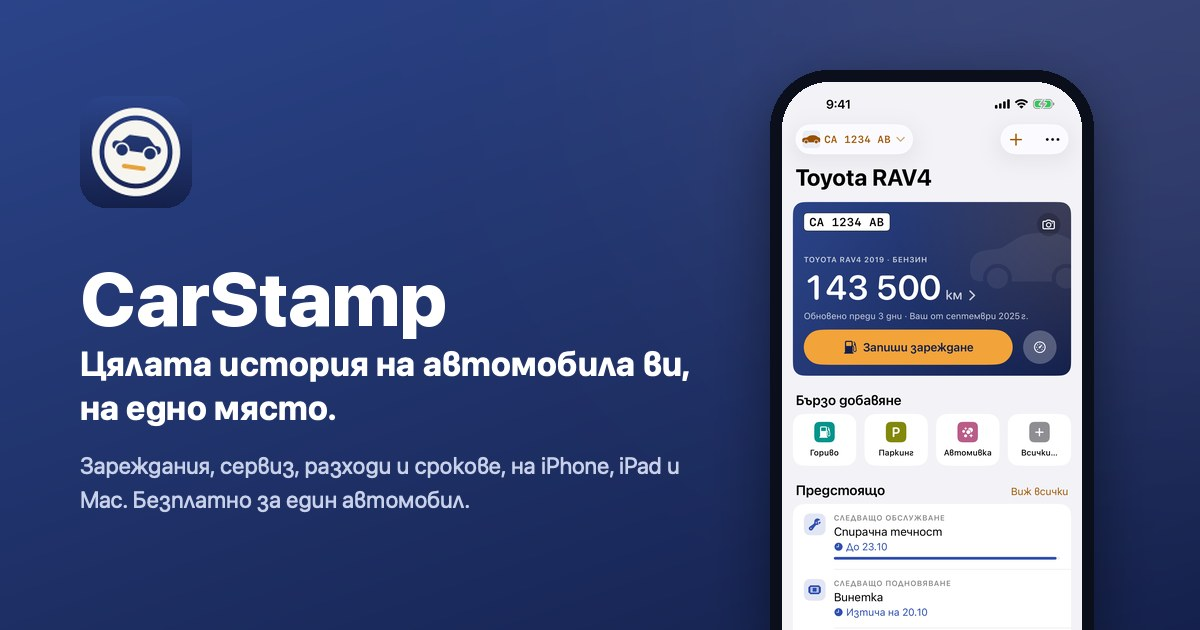
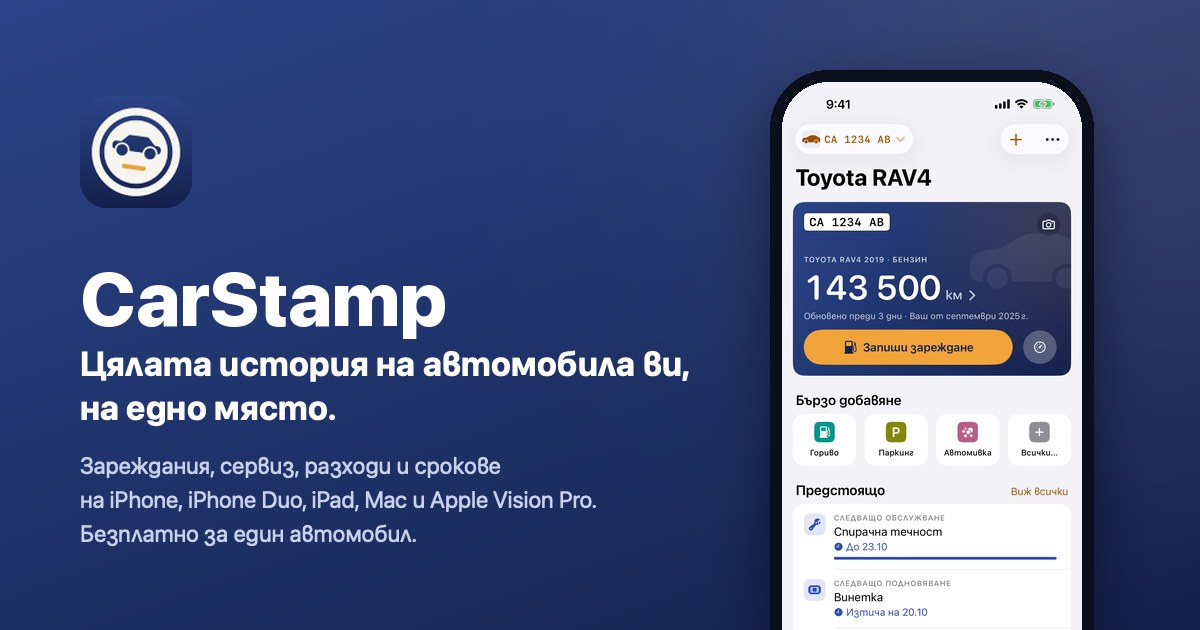
Share images name iPhone Duo and Apple Vision Pro; the Bulgarian press page reads as native Bulgarian

Changed region(s): [[0.0617, 0.754, 0.4933, 0.8746], [0.4317, 0.7238, 0.5858, 0.754]]

diff --git a/public/bg/press/index.html b/public/bg/press/index.html
@@ -7,8 +7,8 @@
 <meta name="color-scheme" content="light dark">
 <meta name="theme-color" media="(prefers-color-scheme: light)" content="#F6F4EF">
 <meta name="theme-color" media="(prefers-color-scheme: dark)" content="#14204B">
-<title>CarStamp за медиите: факти, снимки на екрана и икона</title>
-<meta name="description" content="Факти, готови описания, цени, истински снимки на екрана и иконата на CarStamp, дневник за автомобила за iPhone и iPad.">
+<title>CarStamp за медиите: факти, екранни снимки и икона</title>
+<meta name="description" content="Факти, готови описания, цени, реални екранни снимки и иконата на CarStamp, дневник за автомобила за iPhone, iPad, Mac и Apple Vision Pro.">
 <link rel="canonical" href="https://carstamp.app/bg/press/">
 <link rel="alternate" hreflang="en" href="https://carstamp.app/press/">
 <link rel="alternate" hreflang="bg" href="https://carstamp.app/bg/press/">
@@ -21,7 +21,7 @@
 <meta property="og:type" content="website">
 <meta property="og:site_name" content="CarStamp">
 <meta property="og:title" content="CarStamp за медиите">
-<meta property="og:description" content="Факти, описания, цени, снимки на екрана и иконата за материали за CarStamp.">
+<meta property="og:description" content="Факти, описания, цени, екранни снимки и иконата за материали за CarStamp.">
 <meta property="og:url" content="https://carstamp.app/bg/press/">
 <meta property="og:image" content="https://carstamp.app/assets/og-bg.jpg">
 <meta property="og:image:width" content="1200">
@@ -39,7 +39,7 @@
       "@id": "https://carstamp.app/bg/press/#webpage",
       "url": "https://carstamp.app/bg/press/",
       "name": "CarStamp за медиите",
-      "description": "Факти, описания, цени, снимки на екрана и иконата за материали за CarStamp.",
+      "description": "Факти, описания, цени, екранни снимки и иконата за материали за CarStamp.",
       "inLanguage": "bg",
       "isPartOf": {
         "@id": "https://carstamp.app/#website"
@@ -90,7 +90,7 @@
 <div class="doc-hero">
   <div class="wrap">
     <h1>CarStamp за медиите</h1>
-    <p class="lede">Основните факти, две описания, които можете да използвате както са, цените, истински снимки на екрана и иконата на приложението. За други екрани или въпрос пишете на support@carstamp.app.</p>
+    <p class="lede">Тук ще намерите основната информация за приложението, две готови описания, цените, реални екранни снимки и иконата. Ако ви трябват други екрани или имате въпрос, пишете на support@carstamp.app.</p>
     
   </div>
 </div>
@@ -106,37 +106,39 @@
       <li><a href="#features">Основните възможности</a></li>
       <li><a href="#pricing">Цени</a></li>
       <li><a href="#privacy">Поверителност</a></li>
-      <li><a href="#files">Снимки на екрана и икона</a></li>
+      <li><a href="#files">Екранни снимки и икона</a></li>
     </ol>
   </nav>
   <article class="prose">
 <section class="contact-card" aria-labelledby="contact"><h2 id="contact">Връзка</h2><p><a href="mailto:support@carstamp.app">support@carstamp.app</a>. Пишете на български или на английски, с „За медиите“ в темата.</p></section>
 <h2 id="facts">Накратко</h2>
-<div class="table-scroll table-fit" tabindex="0" role="region" aria-labelledby="facts"><table><caption class="visually-hidden">Накратко</caption><thead><tr><th scope="col">Какво</th><th scope="col">Подробности</th></tr></thead><tbody><tr><th scope="row">Приложение</th><td>CarStamp</td></tr><tr><th scope="row">Какво е</th><td>Дневник за автомобила: гориво и зареждане с ток, обслужване и ремонти, разходи, километраж, напомняния за обслужване и срокове, документи и анализи</td></tr><tr><th scope="row">Разработчик</th><td>Независим разработчик от България</td></tr><tr><th scope="row">Устройства</th><td>iPhone (и iPhone Duo, сгънат и разгънат), iPad, Mac и Apple Vision Pro</td></tr><tr><th scope="row">Изисква</th><td>iOS и iPadOS 18, macOS 15, visionOS 2 или <span class="nowrap">по-нова</span> версия</td></tr><tr><th scope="row">Цена</th><td>Безплатно за един автомобил, завинаги. CarStamp Pro по избор: 3,99 € на месец, 24,99 € на година или 79,99 € еднократно</td></tr><tr><th scope="row">Една покупка</th><td>Pro важи на всички устройства със същия Apple акаунт, включително Mac и Apple Vision Pro, и работи със „Семейно споделяне“</td></tr><tr><th scope="row">Езици</th><td>Английски (американски и британски) и български</td></tr><tr><th scope="row">Къде</th><td>В цял свят, с километри или мили и всяка валута</td></tr><tr><th scope="row">Регистрация</th><td>Не е нужна</td></tr><tr><th scope="row">Събиране на данни</th><td>Няма. Етикетът за поверителност в App Store показва, че не се събират данни</td></tr><tr><th scope="row">App Store</th><td><a href="https://apps.apple.com/app/id6820775330">https://apps.apple.com/app/id6820775330</a></td></tr><tr><th scope="row">Сайт</th><td><a href="https://carstamp.app/bg/">https://carstamp.app/bg/</a></td></tr></tbody></table></div>
+<div class="table-scroll table-fit" tabindex="0" role="region" aria-labelledby="facts"><table><caption class="visually-hidden">Накратко</caption><thead><tr><th scope="col">Параметър</th><th scope="col">Описание</th></tr></thead><tbody><tr><th scope="row">Приложение</th><td>CarStamp</td></tr><tr><th scope="row">Какво представлява</th><td>Дневник за автомобила: зареждания с гориво и ток, обслужване и ремонти, разходи, километраж, напомняния за поддръжка и срокове, документи и анализи</td></tr><tr><th scope="row">Разработчик</th><td>Независим разработчик от България</td></tr><tr><th scope="row">Устройства</th><td>iPhone (включително iPhone Duo, сгънат и разгънат), iPad, Mac и Apple Vision Pro</td></tr><tr><th scope="row">Системни изисквания</th><td>iOS 18 и iPadOS 18, macOS 15, visionOS 2 или <span class="nowrap">по-нови</span> версии</td></tr><tr><th scope="row">Цена</th><td>Безплатно за един автомобил, без ограничение във времето. CarStamp Pro по желание: 3,99 € на месец, 24,99 € на година или 79,99 € еднократно</td></tr><tr><th scope="row">Покупка</th><td>Pro важи на всички устройства с един и същ Apple акаунт, включително Mac и Apple Vision Pro, и поддържа „Семейно споделяне“</td></tr><tr><th scope="row">Езици</th><td>Английски (американски и британски) и български</td></tr><tr><th scope="row">Държави</th><td>Целият свят, с километри или мили и всякаква валута</td></tr><tr><th scope="row">Регистрация</th><td>Не е нужна</td></tr><tr><th scope="row">Събиране на данни</th><td>Няма. В App Store етикетът за поверителност е „Не се събират данни“</td></tr><tr><th scope="row">App Store</th><td><a href="https://apps.apple.com/app/id6820775330">https://apps.apple.com/app/id6820775330</a></td></tr><tr><th scope="row">Сайт</th><td><a href="https://carstamp.app/bg/">https://carstamp.app/bg/</a></td></tr></tbody></table></div>
 <h2 id="story">Историята на CarStamp</h2>
-<p><strong>Всичко започна с една папка с фактури.</strong> Разработчикът купи автомобил втора ръка от първия му собственик, а с него получи всички фактури от официалния сервиз за всеки ремонт и обслужване и сервизна книжка с печат от всяко посещение.</p>
-<p>Сам си направи таблица в Numbers: на един лист данните на автомобила (VIN, номер на двигателя, код на цвета, начало на гаранцията), а на друг всяко обслужване, ред по ред, с километража, каталожните номера, количествата, цените и отстъпките. Въведе в нея хартиените фактури от предишния собственик, а след всяко свое посещение в сервиза добавяше и новата фактура. Но това беше всичко. Горивото, застраховките, миенето и текущите разходи ги нямаше, затова така и не знаеше колко всъщност му струва автомобилът. А когато потрябваха полицата за Каско или големият талон, те никога не бяха под ръка.</p>
-<p>Не намери приложение, което да събира всичко това на едно място така, както искаше, и създаде свое. Името идва от сервизната книжка: печатът на сервиза е доказателството, че работата е свършена. CarStamp е този печат за целия живот на автомобила, а при продажба историята преминава заедно с него към новия собственик.</p>
-<p><strong><span class="nowrap">По-малко</span> преписване.</strong> След толкова фактури, преписани на ръка, искаше тази работа да я върши камерата: снимате касовата бележка и CarStamp я разчита на самото устройство, а със „Сканирайте километража“ на iPhone и iPad показанието се чете направо от таблото.</p>
-<p><strong>Удобно на всяко устройство.</strong> Преди всичко на iPhone, където зареждането се записва за секунди още на бензиностанцията, с бързите действия от иконата и „Сканирайте километража“. А също собствен изглед за iPad, подходящ изглед на iPhone Duo, сгънат и разгънат, прозорец в стаята около вас на Apple Vision Pro и приложение за Mac с менюта и таблици.</p>
+<p><strong>Всичко започна с една папка с фактури.</strong> Разработчикът купува употребяван автомобил от първия му собственик и заедно с него получава всички фактури от официалния сервиз за всеки ремонт и обслужване, както и сервизна книжка с печат от всяко посещение.</p>
+<p>Сам си прави таблица в Numbers: на един лист данните на автомобила (VIN, номер на двигателя, код на боята, начало на гаранцията), а на друг всяко обслужване, ред по ред, с километража, каталожните номера, количествата, цените и отстъпките. Въвежда хартиените фактури на предишния собственик, а след всяко свое посещение в сервиза добавя и новата фактура. Дотук обаче. В таблицата няма гориво, застраховки, автомивка и всекидневни разходи, затова така и не знае колко всъщност му струва автомобилът. А когато потрябват полицата за Каско или големият талон, никога не са подръка.</p>
+<p>Не открива приложение, което да събира всичко на едно място така, както му се иска, и решава да направи свое. Името идва от сервизната книжка: печатът на сервиза доказва, че работата е свършена. CarStamp е този печат за целия живот на автомобила, а при продажба историята минава заедно с автомобила към новия собственик.</p>
+<p><strong><span class="nowrap">По-малко</span> преписване.</strong> След толкова фактури, преписани на ръка, той иска тази работа да я върши камерата. Снимате касовата бележка и CarStamp я разчита на самото устройство, а със „Сканирайте километража“ на iPhone и iPad показанието се взима направо от таблото.</p>
+<p><strong>У дома на всяко устройство.</strong> Преди всичко на iPhone, където зареждането се записва за секунди още на бензиностанцията, с бързите действия от иконата и „Сканирайте километража“. Освен това има отделен изглед за iPad, изглед за iPhone Duo в сгънато и в разгънато положение, прозорец в пространството около вас на Apple Vision Pro и приложение за Mac с менюта и таблици.</p>
 <h2 id="short">Кратко описание</h2>
-<p>CarStamp е дневник за автомобила за iPhone, iPad, Mac и Apple Vision Pro. На едно място пази зарежданията с гориво и ток, ремонтите с частите и труда, разходите, километража и напомнянията за обслужване, ГТП, винетка и застраховки. Без регистрация, без реклами, без събиране на данни. Работи във всяка държава и е безплатно за един автомобил.</p>
+<p>CarStamp е дневник за автомобила за iPhone, iPad, Mac и Apple Vision Pro. Събира на едно място зарежданията с гориво и ток, обслужването и ремонтите, разписани по части и труд, разходите, километража и напомнянията за поддръжка, ГТП, винетка и застраховки. Без регистрация, без реклами и без събиране на данни. Работи във всяка държава и е безплатно за един автомобил.</p>
 <h2 id="long">Пълно описание</h2>
-<p>CarStamp е дневник за автомобила за iPhone, iPad, Mac и Apple Vision Pro, създаден от независим разработчик от България. Приложението пази цялата история на автомобила на едно място: зарежданията с гориво или ток, от бензин и газ до електрически автомобили и <span class="nowrap">плъг-ин</span> хибриди; всяко обслужване и ремонт с частите и труда; всички разходи; километража; и напомнянията за обслужване и за срокове като ГТП, винетка, гражданска отговорност и данък МПС, по дата или по километраж. Работи във всяка държава, с километри или мили и всяка валута, а за автомобили, регистрирани в 30 държави, предлага обичайните срокове. Без регистрация, без реклами и без проследяване: данните остават на устройството, а при синхронизиране с iCloud и в собствения iCloud на собственика; касовите бележки се разчитат на самото устройство. При продажба историята може да премине към новия собственик като файл, който той отваря в CarStamp. Приложението е безплатно за един автомобил, а CarStamp Pro добавя още автомобили, синхронизиране с iCloud и сервизна история в PDF.</p>
+<p>CarStamp е дневник за автомобила за iPhone, iPad, Mac и Apple Vision Pro, създаден от независим разработчик от България. Приложението пази цялата история на автомобила на едно място. Това са зарежданията с гориво или ток, от бензин и газ до електромобили и <span class="nowrap">плъг-ин</span> хибриди, всяко обслужване и ремонт с частите и труда, всички разходи, километражът и напомнянията за поддръжка и за срокове като ГТП, винетка, гражданска отговорност и данък МПС, по дата или по километраж.</p>
+<p>CarStamp работи във всяка държава, с километри или мили и всякаква валута, а за автомобили, регистрирани в 30 държави, предлага обичайните срокове. Няма регистрация, реклами и проследяване. Данните остават на устройството, а ако синхронизирането е включено, и в личния iCloud на потребителя. Касовите бележки се разчитат на самото устройство. При продажба историята може да премине към новия собственик като файл, който той отваря в CarStamp.</p>
+<p>Приложението е безплатно за един автомобил. CarStamp Pro добавя още автомобили, синхронизиране с iCloud и сервизна история в PDF.</p>
 <h2 id="features">Основните възможности</h2>
-<ul><li><strong>Гориво и ток.</strong> Бензин, дизел, газ, метан, водород, електрически автомобили и <span class="nowrap">плъг-ин</span> хибриди, дори две горива в един автомобил, с отделен разход за всяко гориво.</li><li><strong>Всяко обслужване и ремонт, с частите и труда.</strong> Частите с марка, каталожен номер и откъде са купени, трудът и сервизът, както са във фактурата, или отбелязка, че сте го направили сами.</li><li><strong>Всички разходи.</strong> Повтарящите се, като застраховка или лизинг, се добавят сами на датата си.</li><li><strong>Обслужване и срокове.</strong> Планът за поддръжка, ГТП, винетка, гражданска отговорност и данък МПС, с напомняне по дата или по километраж. Отбелязвате ги като направени или подновени направо от известието.</li><li><strong>Касови бележки и километраж, разчетени на устройството.</strong> Снимате бележката и CarStamp я разчита. С „Сканирайте километража“ на iPhone и iPad километражът се разчита с камерата направо от таблото.</li><li><strong>Анализи.</strong> Разходи, цена на километър и разход на гориво, по месеци и по категории, с <span class="nowrap">най-големите</span> разходи.</li><li><strong>Документи.</strong> Талон, застраховки и шофьорска книжка със сроковете им и напомняния.</li><li><strong>Във всяка държава.</strong> Километри или мили; литри, американски или британски галони или kWh; всяка валута, дори няколко в един автомобил. За автомобили, регистрирани в 30 държави, обичайните срокове са предложени, другаде има общ набор, а можете да добавите и свои.</li><li><strong>Историята остава с автомобила.</strong> С „Предаване на новия собственик“ купувачът получава историята като файл, който отваря в CarStamp, а изпращането е безплатно. С Pro и „Сервизна история в PDF“ за споделяне, запазване или печат.</li><li><strong>Данните са ваши.</strong> Импортиране от други приложения за автомобили или от CSV файл; резервното копие, възстановяването и експортът в CSV са безплатни.</li><li><strong>Пригодено за всяко устройство.</strong> Бързи действия от иконата на iPhone и iPad и от Dock на Mac. Пригодено за iPhone Duo, сгънат и разгънат. На Apple Vision Pro се отваря като прозорец в стаята около вас. С Pro: синхронизиране с iCloud, Siri и Бързи команди, и уиджети на iPhone, iPad и Mac.</li></ul>
+<ul><li><strong>Гориво и ток.</strong> Бензин, дизел, газ, метан, водород, електромобили и <span class="nowrap">плъг-ин</span> хибриди, дори две горива в един автомобил, с отделен разход за всяко.</li><li><strong>Обслужване и ремонти, разписани по части и труд.</strong> Частите с марка, каталожен номер и откъде са купени, трудът и сервизът, както са във фактурата. Или просто отбелязвате, че сте го направили сами.</li><li><strong>Всички разходи.</strong> Повтарящите се, като застраховка или лизинг, се добавят автоматично на съответната дата.</li><li><strong>Поддръжка и срокове.</strong> Планът за поддръжка, ГТП, винетка, гражданска отговорност и данък МПС, с напомняне по дата или по километраж. Отбелязвате ги като направени или подновени направо от известието.</li><li><strong>Касовите бележки и километражът се разчитат на устройството.</strong> Снимате бележката и CarStamp я разчита. Със „Сканирайте километража“ на iPhone и iPad камерата взима показанието направо от таблото.</li><li><strong>Анализи.</strong> Разходи, цена на километър и разход на гориво, по месеци и по категории, с <span class="nowrap">най-големите</span> разходи.</li><li><strong>Документи.</strong> Талон, застраховки и шофьорска книжка със сроковете им и напомняния.</li><li><strong>Във всяка държава.</strong> Километри или мили; литри, американски или британски галони или kWh; всякаква валута, дори няколко в един автомобил. За автомобили, регистрирани в 30 държави, CarStamp предлага обичайните срокове. За останалите има общ набор, а можете да добавите и свои.</li><li><strong>Историята остава с автомобила.</strong> С „Предаване на новия собственик“ купувачът получава историята като файл, който отваря в CarStamp, а изпращането е безплатно. С Pro имате и „Сервизна история в PDF“ за споделяне, запазване или печат.</li><li><strong>Данните са ваши.</strong> Импортиране от други приложения за автомобили или от CSV файл. Резервното копие, възстановяването и експортът в CSV са безплатни.</li><li><strong>На всяко устройство.</strong> Бързи действия от иконата на iPhone и iPad и от Dock на Mac. Изглед за iPhone Duo, сгънат и разгънат. На Apple Vision Pro се отваря като прозорец в пространството около вас. С Pro: синхронизиране с iCloud, Siri и Бързи команди и уиджети на iPhone, iPad и Mac.</li></ul>
 <h2 id="pricing">Цени</h2>
-<p><strong>Безплатно за един автомобил, завинаги.</strong> Неограничени записи, всички напомняния, документи със сроковете им, 10 разчитания на касови бележки в началото, „Сканирайте километража“, анализи за този месец, последните 3, 6 или 12 месеца, тази и миналата година, импортиране, резервно копие, експорт и „Предаване на новия собственик“. Без реклами и без срок.</p>
+<p><strong>Безплатно за един автомобил, без ограничение във времето.</strong> Неограничен брой записи, всички напомняния, документи със сроковете им, 10 разчитания на касови бележки в началото, „Сканирайте километража“, анализи за този месец, последните 3, 6 или 12 месеца, тази и миналата година, импортиране, резервно копие, експорт и „Предаване на новия собственик“. Без реклами.</p>
 <div class="table-scroll" tabindex="0" role="region" aria-labelledby="pricing"><table><caption class="visually-hidden">Цени</caption><thead><tr><th scope="col">План</th><th scope="col">Еврозона (и България)</th><th scope="col">САЩ</th><th scope="col">Великобритания</th></tr></thead><tbody><tr><th scope="row">Месечен</th><td>3,99 €</td><td>3,99 $</td><td>3,49 £</td></tr><tr><th scope="row">Годишен, с 14 дни безплатно за нови абонати</th><td>24,99 €</td><td>24,99 $</td><td>22,99 £</td></tr><tr><th scope="row">Еднократно</th><td>79,99 €</td><td>79,99 $</td><td>69,99 £</td></tr></tbody></table></div>
-<p>Цените са към октомври 2026 г.; в другите държави App Store показва цената в местната валута.</p>
-<p>CarStamp Pro добавя още автомобили и синхронизиране с iCloud; подробни анализи за всеки период, с всяко зареждане, историята на цените, разходите за притежание, очакваното за годината и сравнение между автомобилите; разчитане на касови бележки без ограничение; снимки и файлове към записите и документите; „Сервизна история в PDF“; Siri и Бързи команди; уиджети; историята на частите и на сервизите и комплектите гуми; синхронизиране с календара; плащане на вноски; и други икони на приложението.</p>
+<p>Цените са към октомври 2026 г. В останалите държави App Store показва цената в местната валута.</p>
+<p>CarStamp Pro добавя още автомобили и синхронизиране с iCloud. Също така подробни анализи за всеки период: всяко зареждане, историята на цените, разходите за притежание, очакваното до края на годината и сравнение между автомобилите. Освен това разчитане на касови бележки без ограничение, снимки и файлове към записите и документите, „Сервизна история в PDF“, Siri и Бързи команди, уиджети, история на частите и сервизите, комплекти гуми, синхронизиране с календара, плащане на вноски и алтернативни икони на приложението.</p>
 <p>Ако Pro изтече, нищо не се изтрива. Всички автомобили, записи, документи и напомняния остават и продължават да работят.</p>
 <h2 id="privacy">Поверителност</h2>
-<ul><li>Без регистрация и без вход.</li><li>Без реклами и без проследяване.</li><li>Данните остават на устройството, а при включено синхронизиране и в собствения iCloud на собственика. Приложението не използва сървъри на разработчика и той не вижда данните.</li><li>Касовите бележки и километражът се разчитат на самото устройство.</li><li>Покупките минават през Apple.</li><li>Етикетът за поверителност в App Store показва, че не се събират данни.</li></ul>
+<ul><li>Без регистрация и без вход.</li><li>Без реклами и без проследяване.</li><li>Данните остават на устройството, а ако синхронизирането е включено, и в личния iCloud на потребителя. Приложението не използва сървъри на разработчика и той не вижда данните.</li><li>Касовите бележки и километражът се разчитат на самото устройство.</li><li>Плащанията се обработват от Apple.</li><li>В App Store етикетът за поверителност е „Не се събират данни“.</li></ul>
 <p>Прочетете <a href="/bg/privacy/">политиката за поверителност</a>.</p>
-<h2 id="files">Снимки на екрана и икона</h2>
-<p>Истински екрани от приложението с примерни данни, като PNG файлове. Използвайте ги свободно, когато пишете за CarStamp, но без да променяте показаното от приложението. Всеки друг екран, светъл или тъмен, на български или на английски, изпращаме при поискване.</p>
-<ul><li><a href="/press/files/carstamp-icon-1024.png">Иконата, 1024 px</a>, <a href="/press/files/carstamp-icon-dark-1024.png">в тъмен вариант</a>, <a href="/press/files/carstamp-icon-mac-1024.png">за Mac, с прозрачен фон</a></li><li><a href="/press/files/carstamp-iphone-overview-bg-light.png">iPhone, началният екран, светъл</a> и <a href="/press/files/carstamp-iphone-overview-bg-dark.png">тъмен</a></li><li><a href="/press/files/carstamp-iphone-service-bg-light.png">iPhone, ремонт с частите и труда</a></li><li><a href="/press/files/carstamp-iphone-insights-bg-light.png">iPhone, анализи</a></li><li><a href="/press/files/carstamp-ipad-overview-bg-light.png">iPad, началният екран хоризонтално</a></li><li><a href="/press/files/carstamp-mac-overview-bg-light.png">Mac, началният екран, светъл</a> и <a href="/press/files/carstamp-mac-overview-bg-dark.png">тъмен</a></li><li><a href="/press/files/carstamp-vision-overview-bg.png">Apple Vision Pro, началният екран</a></li></ul>
+<h2 id="files">Екранни снимки и икона</h2>
+<p>Реални екрани от приложението с примерни данни, във формат PNG. Използвайте ги свободно, когато пишете за CarStamp, но без да променяте съдържанието им. Други екрани, в светла или тъмна тема, на български или на английски, ще ви изпратим при поискване.</p>
+<ul><li><a href="/press/files/carstamp-icon-1024.png">Иконата, 1024 px</a>, <a href="/press/files/carstamp-icon-dark-1024.png">в тъмен вариант</a>, <a href="/press/files/carstamp-icon-mac-1024.png">за Mac, с прозрачен фон</a></li><li><a href="/press/files/carstamp-iphone-overview-bg-light.png">iPhone, начален екран, светла тема</a> и <a href="/press/files/carstamp-iphone-overview-bg-dark.png">тъмна тема</a></li><li><a href="/press/files/carstamp-iphone-service-bg-light.png">iPhone, ремонт, разписан по части и труд</a></li><li><a href="/press/files/carstamp-iphone-insights-bg-light.png">iPhone, анализи</a></li><li><a href="/press/files/carstamp-ipad-overview-bg-light.png">iPad, начален екран, хоризонтално</a></li><li><a href="/press/files/carstamp-mac-overview-bg-light.png">Mac, начален екран, светла тема</a> и <a href="/press/files/carstamp-mac-overview-bg-dark.png">тъмна тема</a></li><li><a href="/press/files/carstamp-vision-overview-bg.png">Apple Vision Pro, начален екран</a></li></ul>
 <p>Екраните на английски са на <a href="/press/">английската страница</a>.</p>
 <aside class="get-card" aria-label="CarStamp вече е в App Store."><img class="get-icon" src="/apple-touch-icon.png?v=seal" width="56" height="56" alt="" loading="lazy"><div><p class="get-title">CarStamp вече е в App Store.</p><p class="get-line">Безплатно за един автомобил, без регистрация и без реклами. <a href="/bg/#free">Какво е безплатно</a></p></div><a class="store-badge" href="https://apps.apple.com/app/id6820775330?pt=122175632&amp;ct=press&amp;mt=8" rel="noopener"><img src="/assets/appstore-badge-bg.svg" width="150" height="50" alt="Свали от App Store"></a></aside>
   </article>
